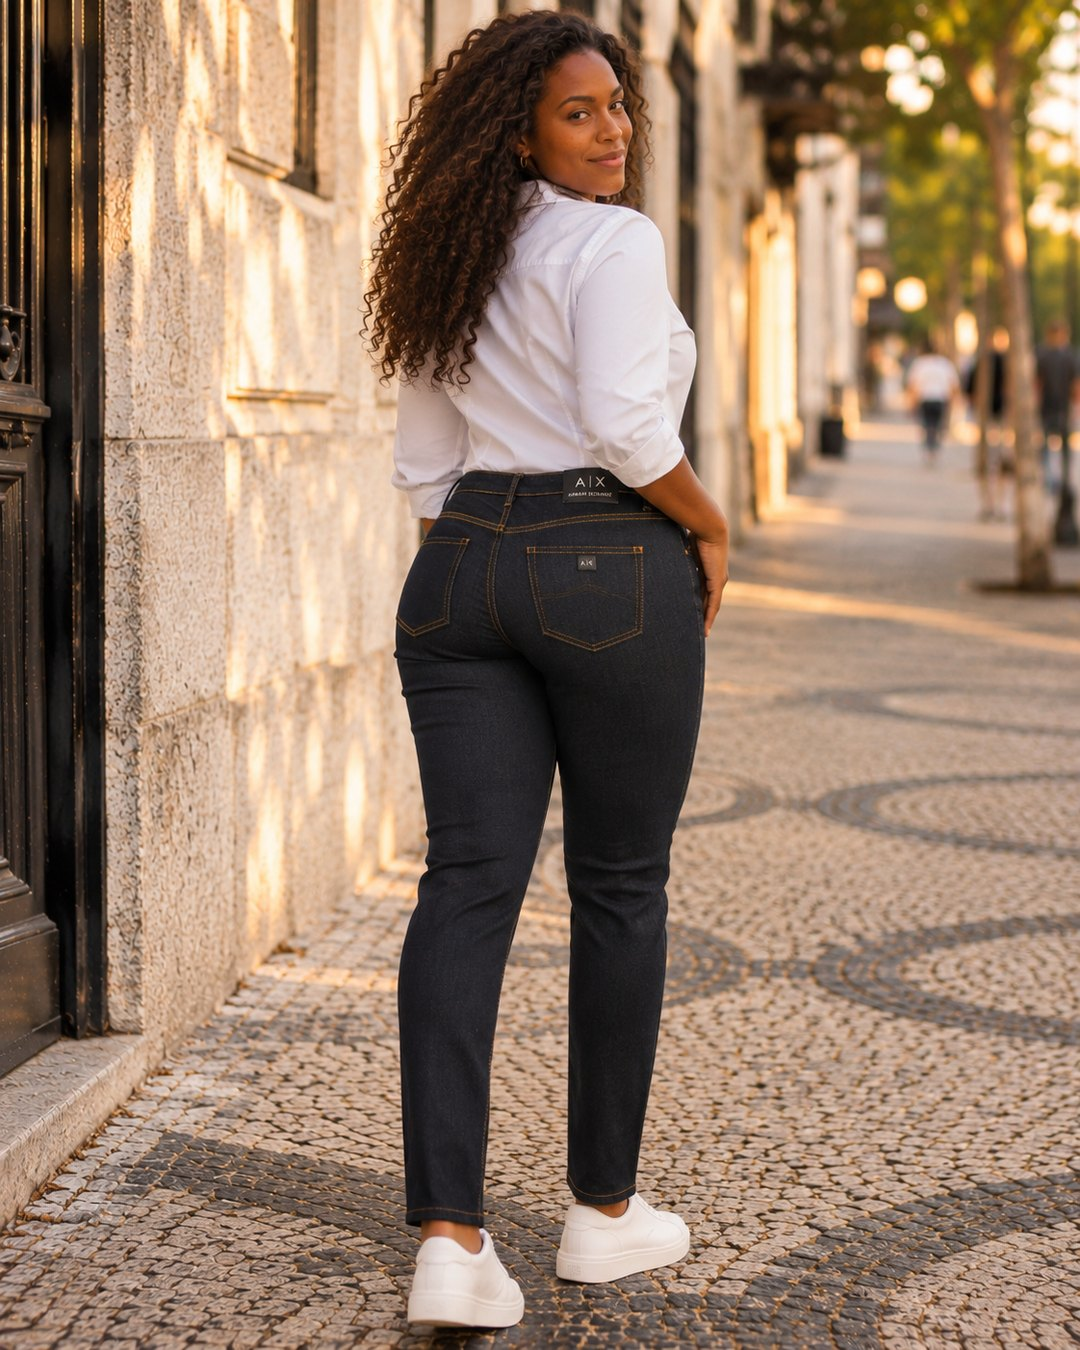
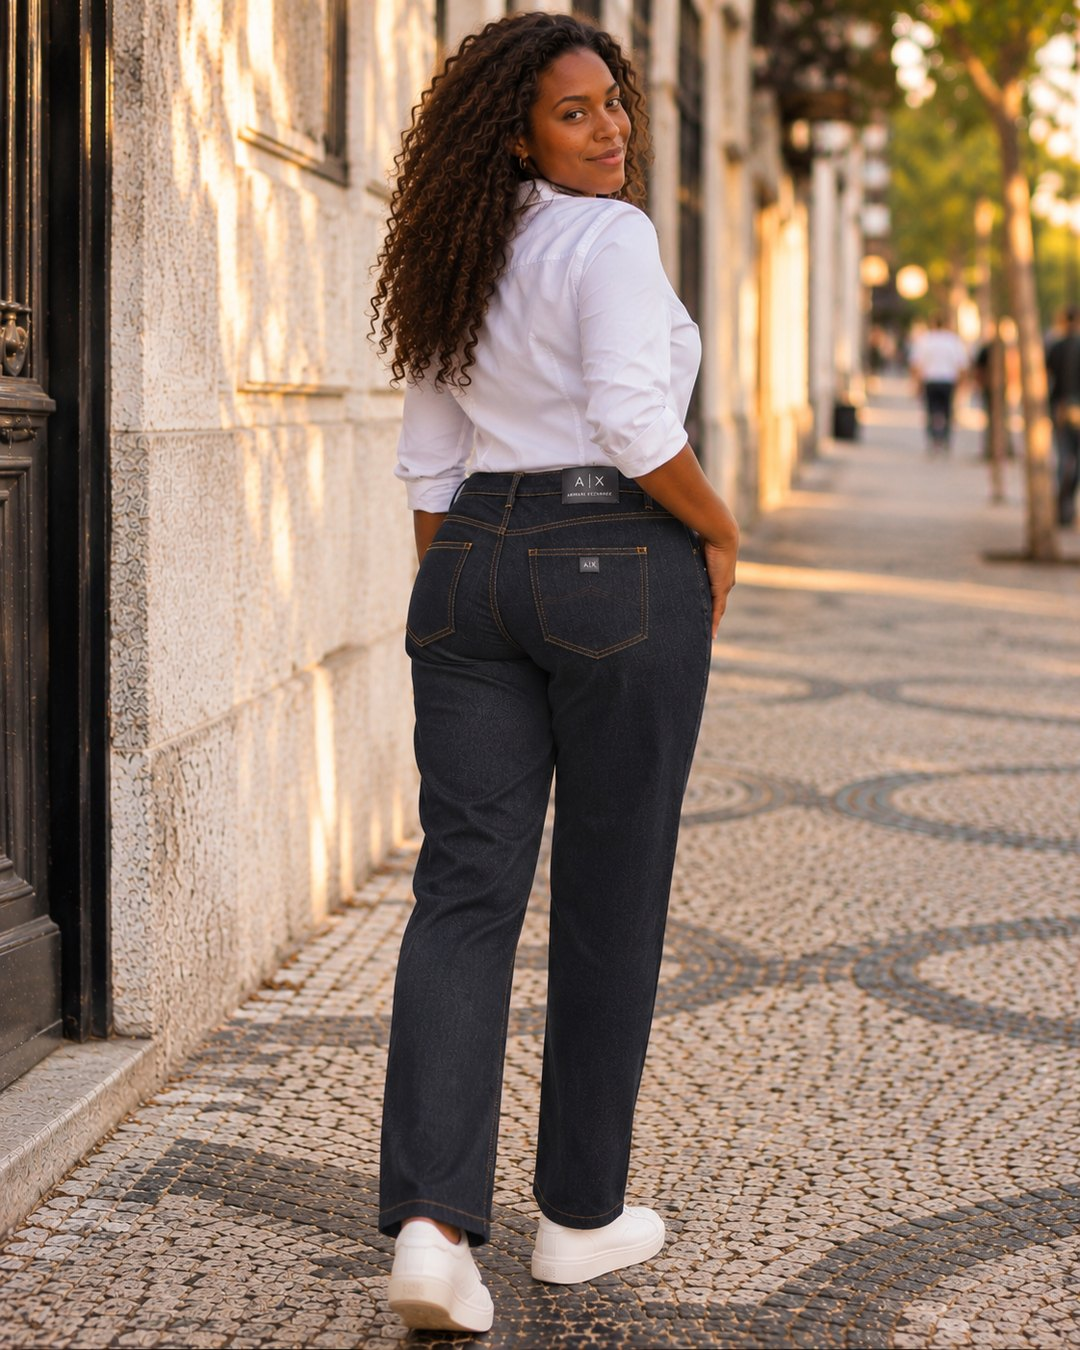
Closet da Lu: novas fotos da Armani (perna mais solta)
Claude-Session: https://claude.ai/code/session_018VRF1gtzpRsRmNbZQKreV2

diff --git a/closet-da-lu/index.html b/closet-da-lu/index.html
@@ -158,8 +158,8 @@ const PECAS_LU = [
     detalhe:"Modelo mid rise skinny · tamanho 31/32 (≈ 40 PT) · pouquíssimo uso", preco:30, status:"disponivel",
     fotos:["/img/lu/tommy-jeans-modelo.jpg","/img/lu/tommy-jeans-costas-modelo.jpg"] },
   { id:"lu-armani-j45-cigarette", cat:"roupas", marca:"Armani Exchange", nome:"Calça jeans J45 Cigarette",
-    detalhe:"Ganga escura com pespontos cor de mostarda · cintura média, perna reta e justa · tamanho 33 (≈ 42 PT) · nunca usada", preco:50, status:"disponivel",
-    fotos:["/img/lu/armani-j45-modelo.jpg","/img/lu/armani-j45-costas-modelo.jpg"] },
+    detalhe:"Ganga escura com pespontos cor de mostarda · cintura média, perna reta e mais solta · tamanho 33 (≈ 42 PT) · nunca usada", preco:50, status:"disponivel",
+    fotos:["/img/lu/armani-j45-modelo.jpg?v=2","/img/lu/armani-j45-costas-modelo.jpg?v=2"] },
 ];
 const WA = "351936796783";
 const ST = { disponivel:["Peça única","ok"], reservado:["Reservada","res"], vendido:["Vendida","sold"] };
